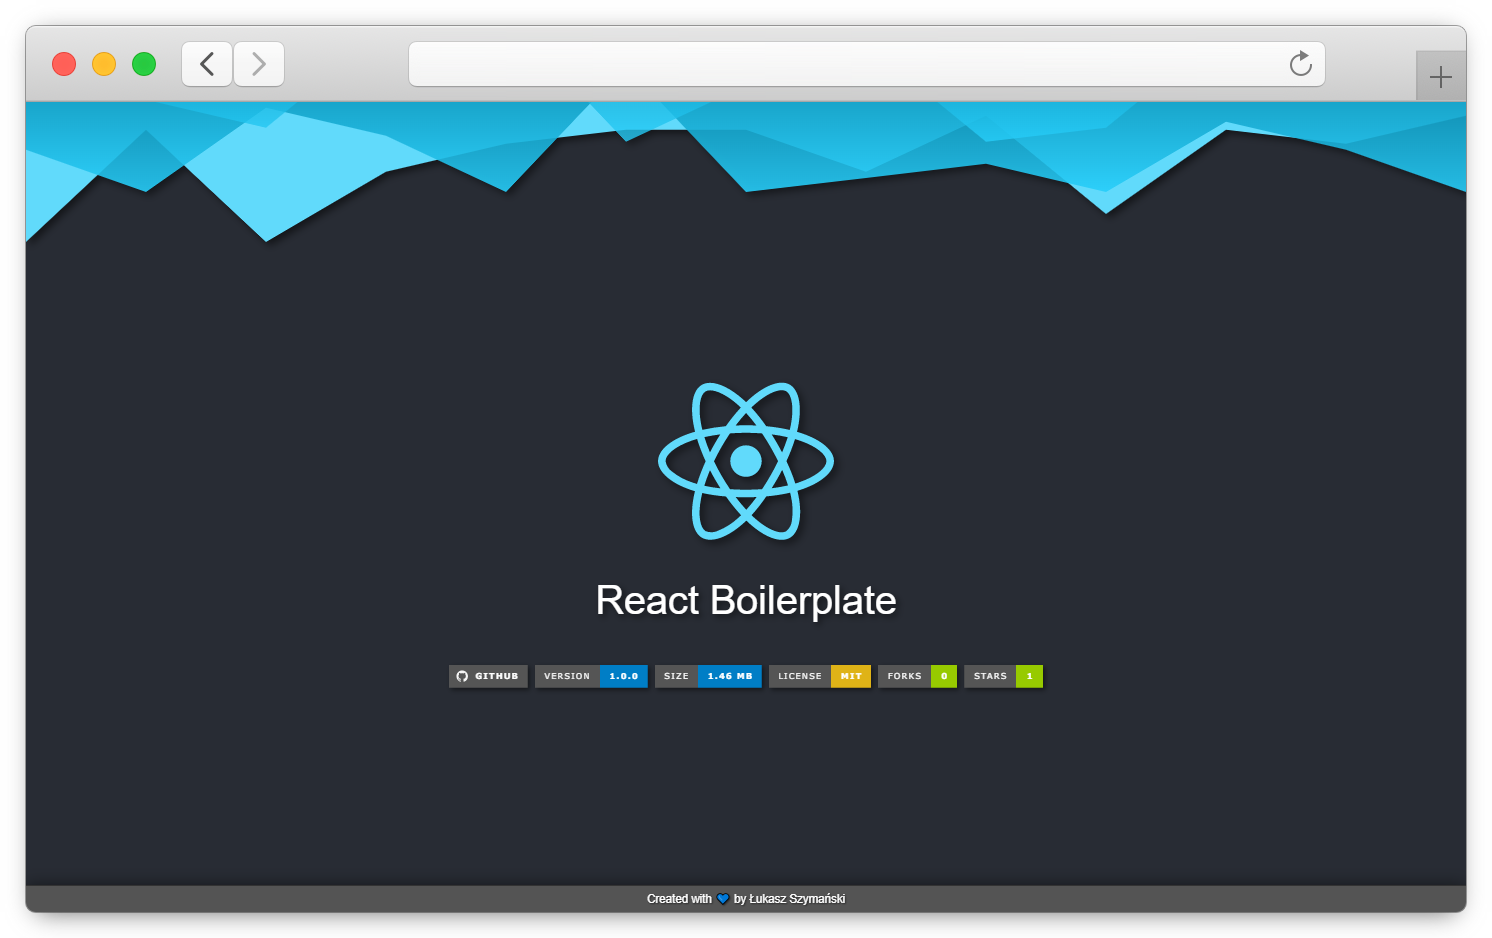
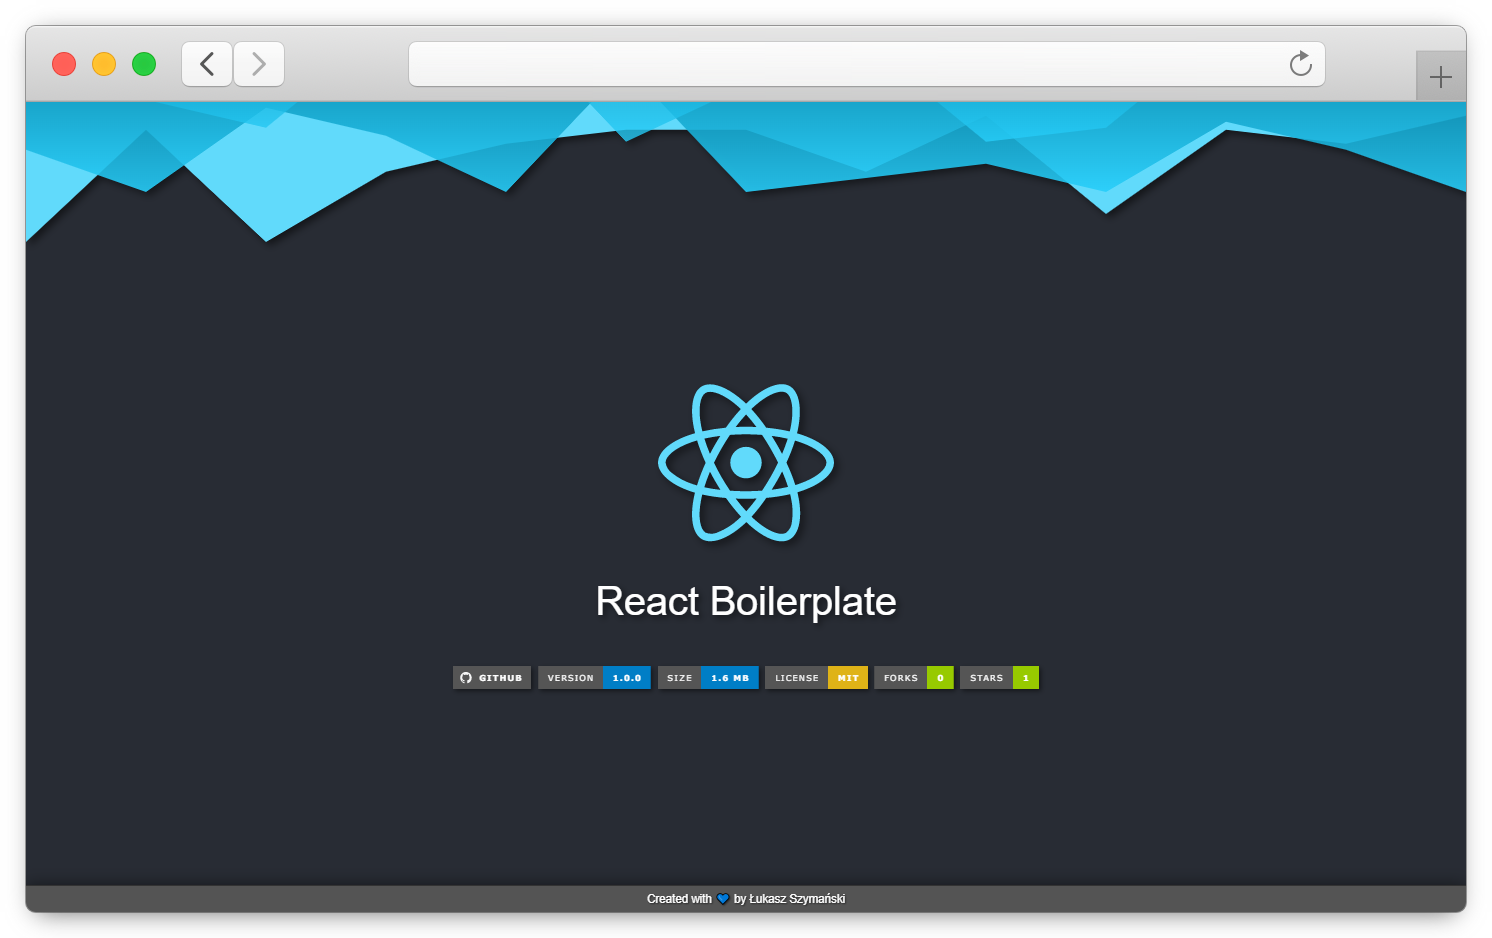
Update Home.js and _home.scss files - fix badges

diff --git a/src/pages/Home.js b/src/pages/Home.js
@@ -11,7 +11,7 @@ const Home = () => {
                 src={logo}
             />
             <h1 className="home-container__title">React Boilerplate</h1>
-            <div className="home-container__badges">
+            <div className="flexbox-row home-container__badges">
                 <a href="https://github.com/lszymanski7/boilerplate-react">
                     <img
                         alt="GitHub Badge"

diff --git a/src/assets/sass/pages/_home.scss b/src/assets/sass/pages/_home.scss
@@ -30,6 +30,7 @@
   }
 
   img {
+    display: block;
     padding: 0.2rem map-get($spaces, 'xxs');
     @include drop-shadow(3px, 3px, 3px, map-get($colors, 'shadow', 'black-50'));
   }
